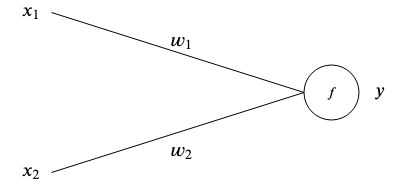
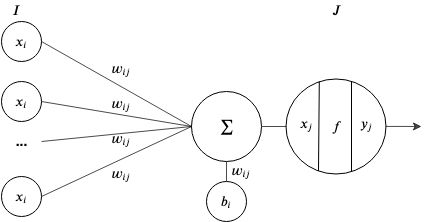
updated readme

diff --git a/README.tex.md b/README.tex.md
@@ -26,7 +26,15 @@ Backpropagation is a technique used to teach a neural network that has at least 
 
 ### Introducing the perceptron
 
-A perceptron is the same as our artificial neuron from part 1 of this series, expect that it has an activation function $f$ that determines its output $y$. 
+A perceptron is a processing unit that takes an input $x$, transforms it using an activation function $f$ and outputs the result $y$. 
+
+Just as we saw in *part 1*, its input is the sum of the previous layer node outputs times their corresponding weight, plus the previous layer bias unit times its weight:
+
+$$ x_j = \sum^I_{i = 1} x_iw_{ij} + b_iw_{ij} $$
+
+If we treat the bias as an additional node in a layer with a constant value of $-1$, then we can simplify the equation:
+
+$$ x_j = \sum^{I + 1}_{i = 1} x_iw_{ij} $$
 
 ![perceptron](readme-images/perceptron.jpg)
 
@@ -48,11 +56,13 @@ It's using a forward pass to compute the outputs of the network, calculates the 
 
 #### Notation
 
-![notation](readme-images/backpropagation-notation.jpg)
+- $x_i, x_j, x_k$, are inputs to a node for layers $I, J, K$ respectively. 
+- $y_i, y_j, y_k$, are the outputs from a node for layers $I, J, K$ respectively. 
+- $y\prime_k$ is the expected output of a node of the $K$ output layer. 
+- $w_{ij}, w_{jk}$ are weights of node connections from layer $I$ to $J$ and from layer $J$ to $K$ respectively.
+- $t$ is the current association out of $T$ associations. 
 
-$t$ being the current association out of $T$ associations. 
-
-We will assign the following activation functions to each layer perceptrons:
+We will assign the following activation functions to each layer perceptrons for all following examples:
 
 - input layer -> identity function
 - hidden layer -> sigmoid function
@@ -62,21 +72,21 @@ We will assign the following activation functions to each layer perceptrons:
 
 During the forward pass, we feed the inputs to the input layer and get the results in the output layer. 
 
-The input to each perceptron in the hidden layer $u_{jt}$ is the sum of all perceptron of the previous layer times their corresponding weight:
+The input to each perceptron in the hidden layer $x_{jt}$ is the sum of all perceptron of the previous layer times their corresponding weight:
 
-$$u_{jt} = \sum_{i = 1}^{I} w_{ij}x_{it}$$
+$$x_{jt} = \sum_{i = 1}^{I} w_{ij}x_{it}$$
 
 However, since our hidden layer's activation function for each perceptron is the sigmoid, then their output will be: 
 
-$$ z_{jt} = f_j(u_{jt}) = (1 + e^{-u_{jt}})^{-1} $$
+$$ y_{jt} = f_j(x_{jt}) = (1 + e^{-x_{jt}})^{-1} $$
 
 In the same manner, the input to the output layer perceptrons are
 
-$$ u_{kt} = \sum^{J}_{j = 1} w_{jk}z_{jt} $$
+$$ x_{kt} = \sum^{J}_{j = 1} w_{jk}y_{jt} $$
 
 and their output is the same since we assigned them the identity activation function. 
 
-$$ y_{kt} = f_k(u_{kt}) = u_{kt} $$
+$$ y_{kt} = f_k(x_{kt}) = x_{kt} $$
 
 Once the inputs have been propagated through the network, we can calculate the error:
 
@@ -92,19 +102,19 @@ $$ \Delta w_{jkt} = -\epsilon \frac{\partial E_t}{\partial w_{jk}} $$
 
 We can find the error gradient by using the chain rule
 
-$$ \frac{\partial E_t}{\partial w_{jk}} = \frac{\partial E_t}{\partial u_{kt}} \frac{\partial u_{kt}}{\partial w_{jk}} = \delta_{kt} z_{jt} \quad where \quad \delta_{kt} = y_{kt} - y\prime_{kt} $$
+$$ \frac{\partial E_t}{\partial w_{jk}} = \frac{\partial E_t}{\partial x_{kt}} \frac{\partial x_{kt}}{\partial w_{jk}} = \delta_{kt} y_{jt} \quad where \quad \delta_{kt} = y_{kt} - y\prime_{kt} $$
 
 Similarly, for a weight between hidden layers, in our case between the input layer and our first hidden layer, we have
 
 $$ \Delta w_{ijt} = -\epsilon \frac{\partial E_t}{\partial w_{ij}} $$
 
-$$ \frac{\partial E_t}{\partial w_{ij}} = \frac{\partial E_t}{\partial u_{jt}} \frac{\partial u_{jt}}{\partial w_{ij}} = \delta_{jt} x_{it} \quad where \quad \delta_{jt} = z_{jt} (1 - z_{jt}) \sum^K_{k = 1} \delta_{kt} w_{jk} $$
+$$ \frac{\partial E_t}{\partial w_{ij}} = \frac{\partial E_t}{\partial x_{jt}} \frac{\partial x_{jt}}{\partial w_{ij}} = \delta_{jt} x_{it} \quad where \quad \delta_{jt} = y_{jt} (1 - y_{jt}) \sum^K_{k = 1} \delta_{kt} w_{jk} $$
 
 Here the calculations are *slightly* more complex. Let's analyze the delta term $\delta_{jt}$ and understand how we got there. We start by calculating the partial derivative of $u_{jt}$ in respect to the error by using the chain rule
 
-$$ \frac{\partial E_t}{\partial u_{jt}} = \frac{\partial E_t}{\partial z_{jt}} \frac{d z_{jt}}{du_{jt}} $$
+$$ \frac{\partial E_t}{\partial x_{jt}} = \frac{\partial E_t}{\partial y_{jt}} \frac{d y_{jt}}{dx_{jt}} $$
 
-$$ \frac{\partial E_t}{\partial z_{jt}} = \sum^K_{k = 1} \frac{\partial E_t}{\partial u_{kt}} \frac{\partial u_{kt}}{\partial z_{jt}} = \sum^K_{k = 1} \delta_{kt} w_{jk} \quad and \quad \frac{d z_{jt}}{du_{jt}} = f'(z_{jt}) = z_{jt}(1 - z{jt}) $$
+$$ \frac{\partial E_t}{\partial y_{jt}} = \sum^K_{k = 1} \frac{\partial E_t}{\partial x_{kt}} \frac{\partial x_{kt}}{\partial y_{jt}} = \sum^K_{k = 1} \delta_{kt} w_{jk} \quad and \quad \frac{dy_{jt}}{dx_{jt}} = f'(y_{jt}) = y_{jt}(1 - y{jt}) $$
 
 Remember that our activation function $f$ is the sigmoid function and that its derivative is $f(x)(1 - f(x))$
 
@@ -120,8 +130,8 @@ Repeat the steps below until the error is about $0$
 
 - for each association, propagate the network forward and get the outputs
   - calculate the $\delta$ term for each output layer node ($y_{kt} - y\prime_{kt}$)
-  - accumulate the gradient for each output weight ($\delta_{kt} z_{jt}$)
-  - calculate the $\delta$ term for each hidden layer node ($z_{jt}(1 - z_{jt})\sum^K_{k = 1}\delta_{kt} w_{jt}$)
+  - accumulate the gradient for each output weight ($\delta_{kt} y_{jt}$)
+  - calculate the $\delta$ term for each hidden layer node ($y_{jt}(1 - y_{jt})\sum^K_{k = 1}\delta_{kt} w_{jt}$)
   - accumulate the gradient for each hidden layer weight ($\delta_{jt} x_{it}$)
 - update all weights and reset accumulated gradients ($w_{ij} = w_{ij} - \epsilon \sum^T_{t = 1}\delta_{jt} x_{it}$)
 
